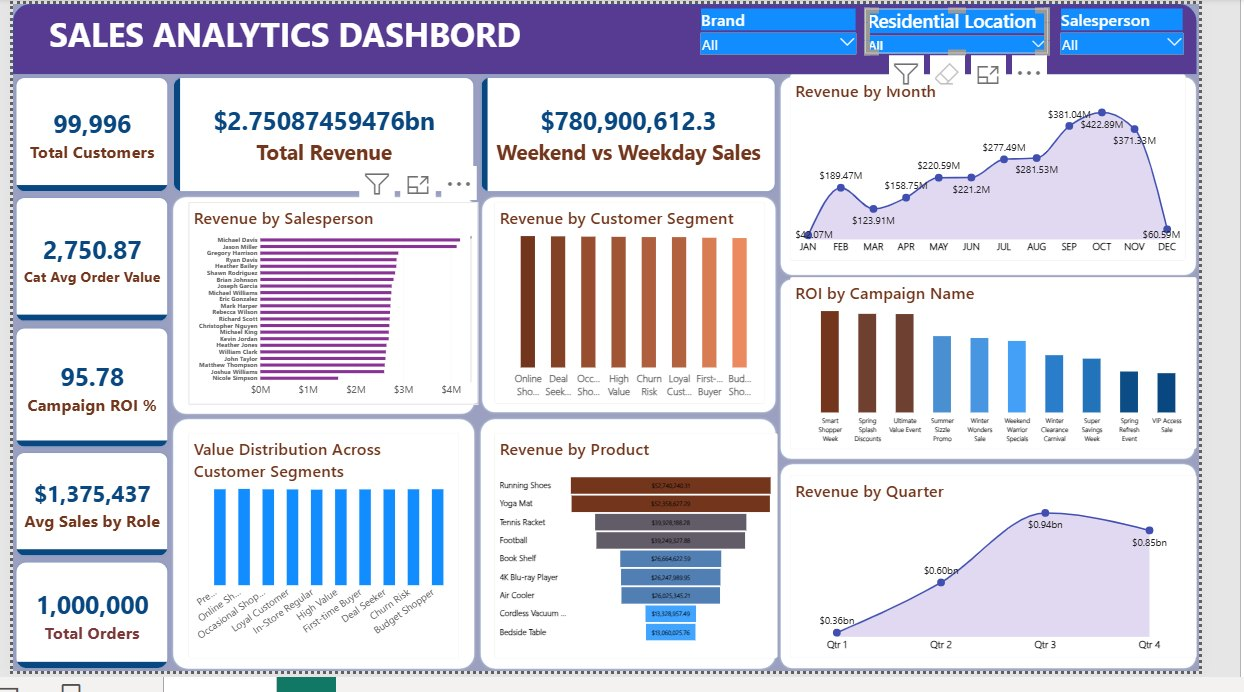
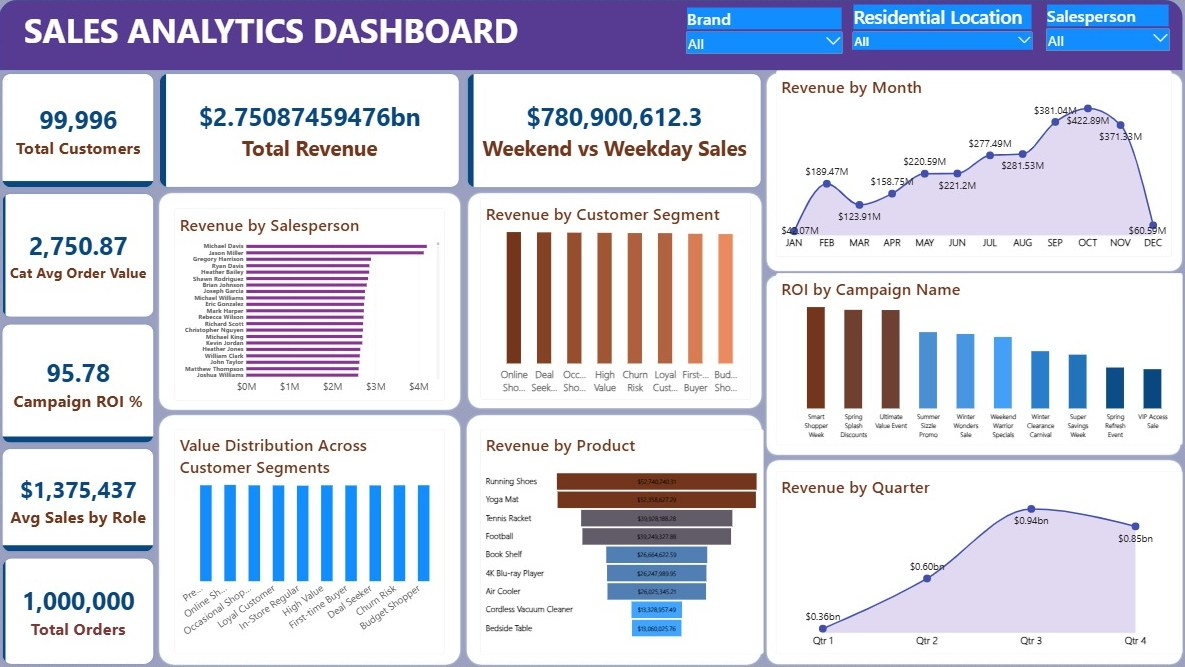
Update retail dashboard image

diff --git a/index.html b/index.html
@@ -100,7 +100,7 @@
     </article>
 
     <article class="project">
-      <div class="shots"><a class="shot" href="img/retail-dashboard.jpg"><img src="img/retail-dashboard.jpg" width="1244" height="692" alt="Retail Sales Analytics dashboard in Power BI: total revenue, orders, customers, average order value, revenue by month and quarter, campaign ROI" loading="lazy"></a></div>
+      <div class="shots"><a class="shot" href="img/retail-dashboard.jpg"><img src="img/retail-dashboard.jpg" width="1185" height="667" alt="Retail Sales Analytics dashboard in Power BI: total revenue, orders, customers, average order value, revenue by month and quarter, campaign ROI" loading="lazy"></a></div>
       <div class="project-body">
         <p class="kicker">Power BI · Retail</p>
         <h3>Retail Sales Analytics</h3>
